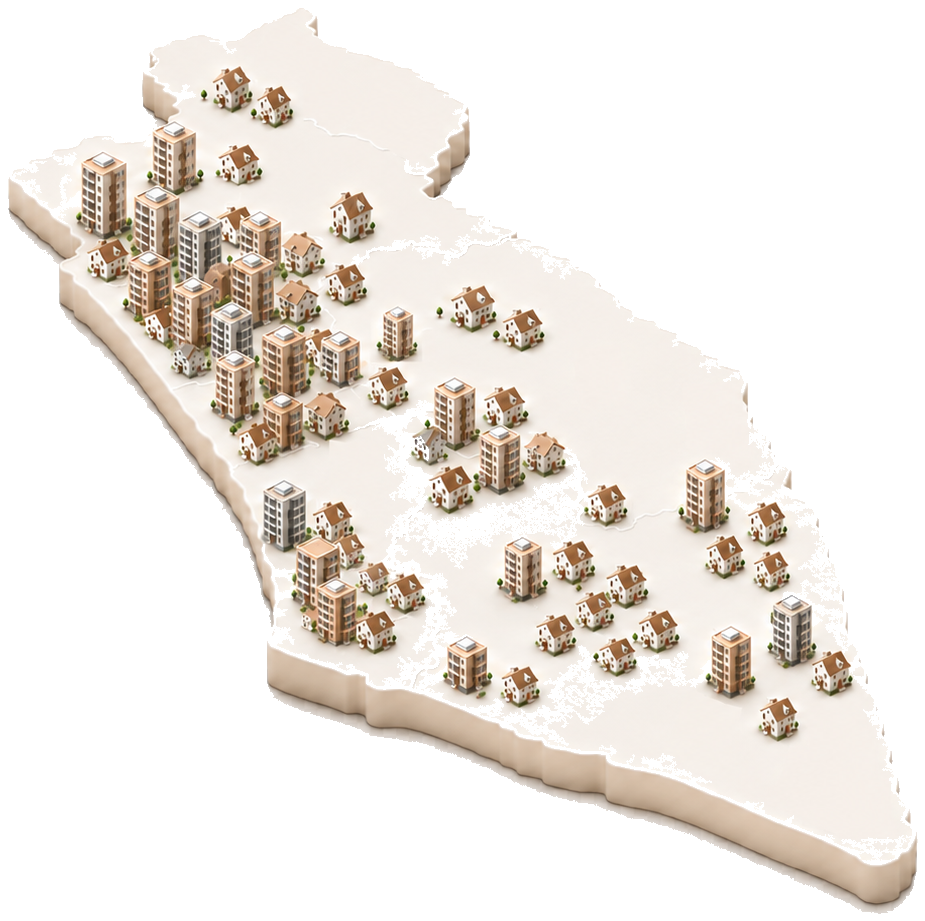
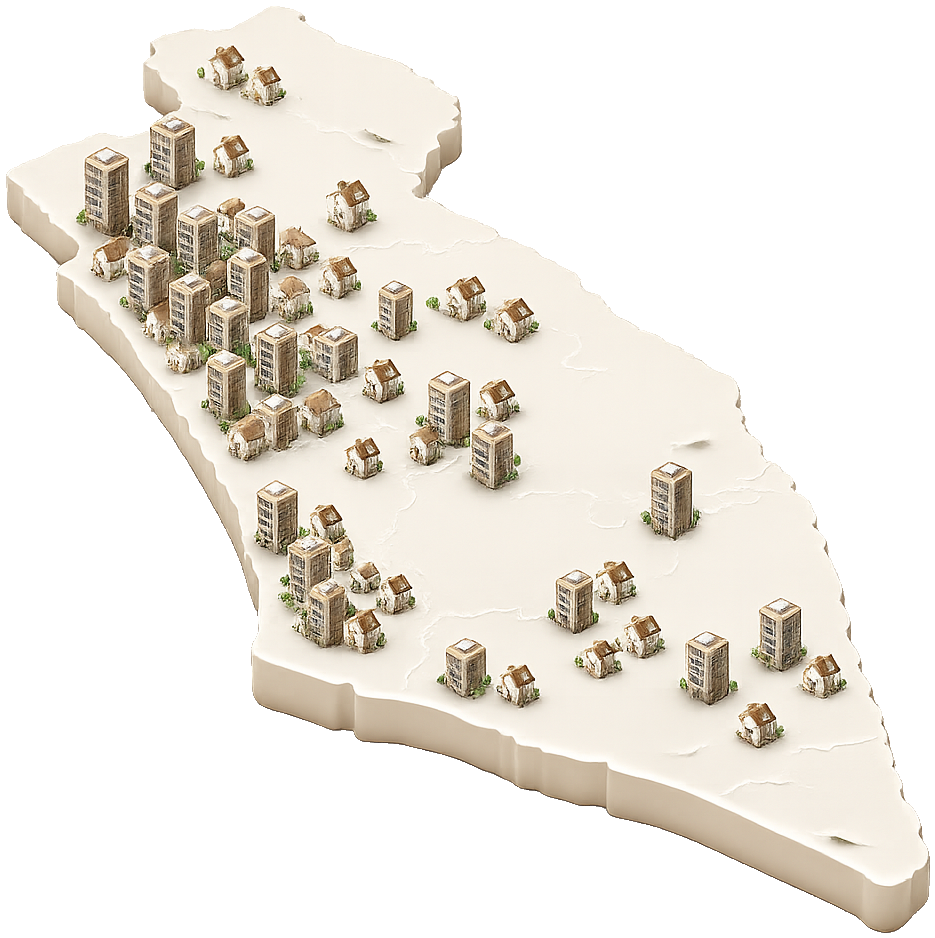
Update landing page

diff --git a/script.js b/script.js
@@ -272,35 +272,35 @@ document.addEventListener('DOMContentLoaded', () => {
     // [city, cx%, cy%, rx%, ry%, zIndex] — where regions overlap, the smaller
     // one needs the higher zIndex or it gets swallowed by its bigger neighbour.
     const mapRegions = [
-      [+row[0]+, 22.9, 7.7, 8.4, 5.9, 5],
-      [+row[0]+, 11.6, 16.9, 6.5, 3.7, 23],
-      [+row[0]+, 10, 21.6, 5.5, 3.4, 29],
-      [+row[0]+, 11, 26.2, 6.1, 3.7, 24],
-      [+row[0]+, 11.3, 30.5, 5.8, 3.4, 28],
-      [+row[0]+, 26.6, 27.6, 7.4, 5.2, 8],
-      [+row[0]+, 35, 20.6, 6.5, 4.3, 14],
-      [+row[0]+, 45.5, 29.9, 8.4, 5.2, 7],
-      [+row[0]+, 38.7, 33.3, 7.1, 3.4, 20],
-      [+row[0]+, 24.2, 33.7, 7.4, 3.4, 19],
-      [+row[0]+, 25, 37.9, 7.1, 3.4, 21],
-      [+row[0]+, 33.9, 37.9, 6.5, 3.4, 25],
-      [+row[0]+, 24.2, 43.8, 6.5, 3.4, 26],
-      [+row[0]+, 33.9, 44.1, 7.1, 3.7, 16],
-      [+row[0]+, 50, 42.5, 6.5, 4, 17],
-      [+row[0]+, 57.3, 33.7, 8.4, 6.5, 3],
-      [+row[0]+, 54.8, 37.6, 7.4, 4, 13],
-      [+row[0]+, 26.6, 49.2, 8.4, 4, 10],
-      [+row[0]+, 25, 53.3, 7.1, 3.4, 22],
-      [+row[0]+, 25.8, 57.3, 6.5, 3.4, 27],
-      [+row[0]+, 24.2, 61.5, 6.5, 4, 18],
-      [+row[0]+, 25.8, 66.6, 6.8, 4, 15],
-      [+row[0]+, 29.4, 72.3, 7.4, 4.3, 11],
-      [+row[0]+, 50.8, 49.2, 10, 7.7, 1],
-      [+row[0]+, 61.3, 67.6, 10, 7.7, 2],
-      [+row[0]+, 50, 76.4, 7.1, 4.3, 12],
-      [+row[0]+, 76.6, 59.2, 8.4, 6.2, 4],
-      [+row[0]+, 87.1, 73.8, 7.7, 6.2, 6],
-      [+row[0]+, 78.2, 76.4, 7.1, 5.2, 9]
+      ['קריית שמונה', 23.2, 8.3, 9.4, 8, 6],
+      ['נהריה', 13.9, 16.9, 7.4, 4.6, 26],
+      ['עכו', 13.2, 21.6, 7.1, 4.3, 29],
+      ['חיפה', 13.9, 26.2, 7.4, 4.6, 27],
+      ['נתניה', 14.5, 30.5, 7.4, 4.3, 28],
+      ['חריש', 26.1, 25.3, 10.3, 8.9, 4],
+      ['בית שאן', 36.3, 21.9, 8.4, 5.5, 14],
+      ['ראש העין', 46.8, 30.8, 8.7, 5.5, 12],
+      ['פתח תקווה', 38.7, 33.9, 8.7, 4.6, 20],
+      ['הרצליה', 25.8, 33.9, 9, 4.6, 19],
+      ['רמת גן', 33.9, 37.9, 8.7, 4.6, 21],
+      ['תל אביב', 25.8, 37.9, 8.7, 4.6, 22],
+      ['בת ים', 25, 43.8, 8.4, 4.6, 23],
+      ['חולון', 34.7, 44.1, 8.7, 4.9, 17],
+      ['רמלה', 50.8, 43.1, 8.7, 5.5, 13],
+      ['ירושלים', 54.8, 34.8, 9, 6.5, 10],
+      ['מודיעין', 51.6, 38.8, 8.4, 5.2, 16],
+      ['ראשון לציון', 27.7, 49.2, 9, 4.9, 15],
+      ['רחובות', 26.5, 53.3, 8.4, 4.6, 24],
+      ['יבנה', 27.1, 57.3, 8.1, 4.6, 25],
+      ['אשדוד', 25.8, 61.5, 8.1, 5.2, 18],
+      ['אשקלון', 29, 66.6, 9, 5.5, 11],
+      ['שדרות', 33.9, 73, 10.3, 6.5, 8],
+      ['בית שמש', 51.6, 49.6, 11.9, 9.2, 3],
+      ['באר שבע', 61.3, 67.6, 14.5, 11.1, 1],
+      ['אופקים', 52.4, 76.9, 10.6, 7.1, 5],
+      ['ערד', 75.8, 59.9, 12.6, 8.9, 2],
+      ['דימונה', 87.4, 73.8, 9.7, 7.4, 7],
+      ['ירוחם', 78.7, 76.4, 9, 6.8, 9]
     ];
 
     let activeZone = null;

diff --git a/apartments.html b/apartments.html
@@ -9,7 +9,7 @@
 <link rel="preconnect" href="https://fonts.googleapis.com">
 <link rel="preconnect" href="https://fonts.gstatic.com" crossorigin>
 <link href="https://fonts.googleapis.com/css2?family=Dancing+Script:wght@500;600&family=Heebo:wght@400;500;600;700;800&display=swap" rel="stylesheet">
-<link rel="stylesheet" href="styles.css?v=6">
+<link rel="stylesheet" href="styles.css?v=8">
 </head>
 <body>
 <a href="#main-content" class="skip-link">דלג לתוכן הראשי</a>
@@ -132,7 +132,7 @@
       <h2 class="coverage-title">פריסה ארצית</h2>
     </div>
     <div class="coverage-wrap" id="coverage-wrap">
-      <img src="assets/israel-map.png?v=6" class="coverage-img" alt="מפת ישראל תלת-ממדית המחולקת לאזורים המציגה את פריסת הדירות של אסירון">
+      <img src="assets/israel-map.png?v=7" class="coverage-img" alt="מפת ישראל תלת-ממדית המחולקת לאזורים המציגה את פריסת הדירות של אסירון">
       <div class="map-icons-layer" id="map-icons-layer"></div>
       <div class="map-tooltip" id="map-tooltip" role="tooltip"></div>
     </div>
@@ -224,6 +224,6 @@
   <button id="a11y-reset" class="a11y-reset-all">איפוס כל ההגדרות</button>
 </div>
 
-<script src="script.js?v=5"></script>
+<script src="script.js?v=7"></script>
 </body>
 </html>

diff --git a/accessibility.html b/accessibility.html
@@ -9,7 +9,7 @@
 <link rel="preconnect" href="https://fonts.googleapis.com">
 <link rel="preconnect" href="https://fonts.gstatic.com" crossorigin>
 <link href="https://fonts.googleapis.com/css2?family=Dancing+Script:wght@500;600&family=Heebo:wght@400;500;600;700;800&display=swap" rel="stylesheet">
-<link rel="stylesheet" href="styles.css?v=6">
+<link rel="stylesheet" href="styles.css?v=8">
 </head>
 <body>
 <a href="#main-content" class="skip-link">דלג לתוכן הראשי</a>
@@ -208,6 +208,6 @@
   <button id="a11y-reset" class="a11y-reset-all">איפוס כל ההגדרות</button>
 </div>
 
-<script src="script.js?v=5"></script>
+<script src="script.js?v=7"></script>
 </body>
 </html>

diff --git a/index.html b/index.html
@@ -9,7 +9,7 @@
 <link rel="preconnect" href="https://fonts.googleapis.com">
 <link rel="preconnect" href="https://fonts.gstatic.com" crossorigin>
 <link href="https://fonts.googleapis.com/css2?family=Dancing+Script:wght@500;600&family=Heebo:wght@400;500;600;700;800&display=swap" rel="stylesheet">
-<link rel="stylesheet" href="styles.css?v=6">
+<link rel="stylesheet" href="styles.css?v=8">
 </head>
 <body>
 <a href="#main-content" class="skip-link">דלג לתוכן הראשי</a>
@@ -519,6 +519,6 @@
   <button id="a11y-reset" class="a11y-reset-all">איפוס כל ההגדרות</button>
 </div>
 
-<script src="script.js?v=5"></script>
+<script src="script.js?v=7"></script>
 </body>
 </html>

diff --git a/privacy.html b/privacy.html
@@ -9,7 +9,7 @@
 <link rel="preconnect" href="https://fonts.googleapis.com">
 <link rel="preconnect" href="https://fonts.gstatic.com" crossorigin>
 <link href="https://fonts.googleapis.com/css2?family=Dancing+Script:wght@500;600&family=Heebo:wght@400;500;600;700;800&display=swap" rel="stylesheet">
-<link rel="stylesheet" href="styles.css?v=6">
+<link rel="stylesheet" href="styles.css?v=8">
 </head>
 <body>
 <a href="#main-content" class="skip-link">דלג לתוכן הראשי</a>
@@ -193,6 +193,6 @@
   <button id="a11y-reset" class="a11y-reset-all">איפוס כל ההגדרות</button>
 </div>
 
-<script src="script.js?v=5"></script>
+<script src="script.js?v=7"></script>
 </body>
 </html>

diff --git a/team.html b/team.html
@@ -9,7 +9,7 @@
 <link rel="preconnect" href="https://fonts.googleapis.com">
 <link rel="preconnect" href="https://fonts.gstatic.com" crossorigin>
 <link href="https://fonts.googleapis.com/css2?family=Dancing+Script:wght@500;600&family=Heebo:wght@400;500;600;700;800&display=swap" rel="stylesheet">
-<link rel="stylesheet" href="styles.css?v=6">
+<link rel="stylesheet" href="styles.css?v=8">
 </head>
 <body>
 <a href="#main-content" class="skip-link">דלג לתוכן הראשי</a>
@@ -206,6 +206,6 @@
   <button id="a11y-reset" class="a11y-reset-all">איפוס כל ההגדרות</button>
 </div>
 
-<script src="script.js?v=5"></script>
+<script src="script.js?v=7"></script>
 </body>
 </html>

diff --git a/why-asiron.html b/why-asiron.html
@@ -9,7 +9,7 @@
 <link rel="preconnect" href="https://fonts.googleapis.com">
 <link rel="preconnect" href="https://fonts.gstatic.com" crossorigin>
 <link href="https://fonts.googleapis.com/css2?family=Dancing+Script:wght@500;600&family=Heebo:wght@400;500;600;700;800&display=swap" rel="stylesheet">
-<link rel="stylesheet" href="styles.css?v=6">
+<link rel="stylesheet" href="styles.css?v=8">
 </head>
 <body>
 <a href="#main-content" class="skip-link">דלג לתוכן הראשי</a>
@@ -264,6 +264,6 @@
   <button id="a11y-reset" class="a11y-reset-all">איפוס כל ההגדרות</button>
 </div>
 
-<script src="script.js?v=5"></script>
+<script src="script.js?v=7"></script>
 </body>
 </html>

diff --git a/styles.css b/styles.css
@@ -609,7 +609,7 @@ body.nav-locked { overflow: hidden; }
   display: flex;
   gap: 16px;
   width: max-content;
-  animation: marquee-scroll 28s linear infinite;
+  animation: marquee-scroll 44s linear infinite;
 }
 .marquee:hover .marquee-track { animation-play-state: paused; }
 .logo-pill {
@@ -985,6 +985,7 @@ html.a11y-dark {
   --color-accent: #d4a45f;
 }
 html.a11y-dark body { background: var(--color-bg); color: var(--color-text); }
+html.a11y-dark .about { background: var(--color-bg-alt); }
 html.a11y-dark .hero {
   background:
     radial-gradient(ellipse 60% 55% at 82% 20%, rgba(212, 164, 95, 0.10), transparent 70%),
